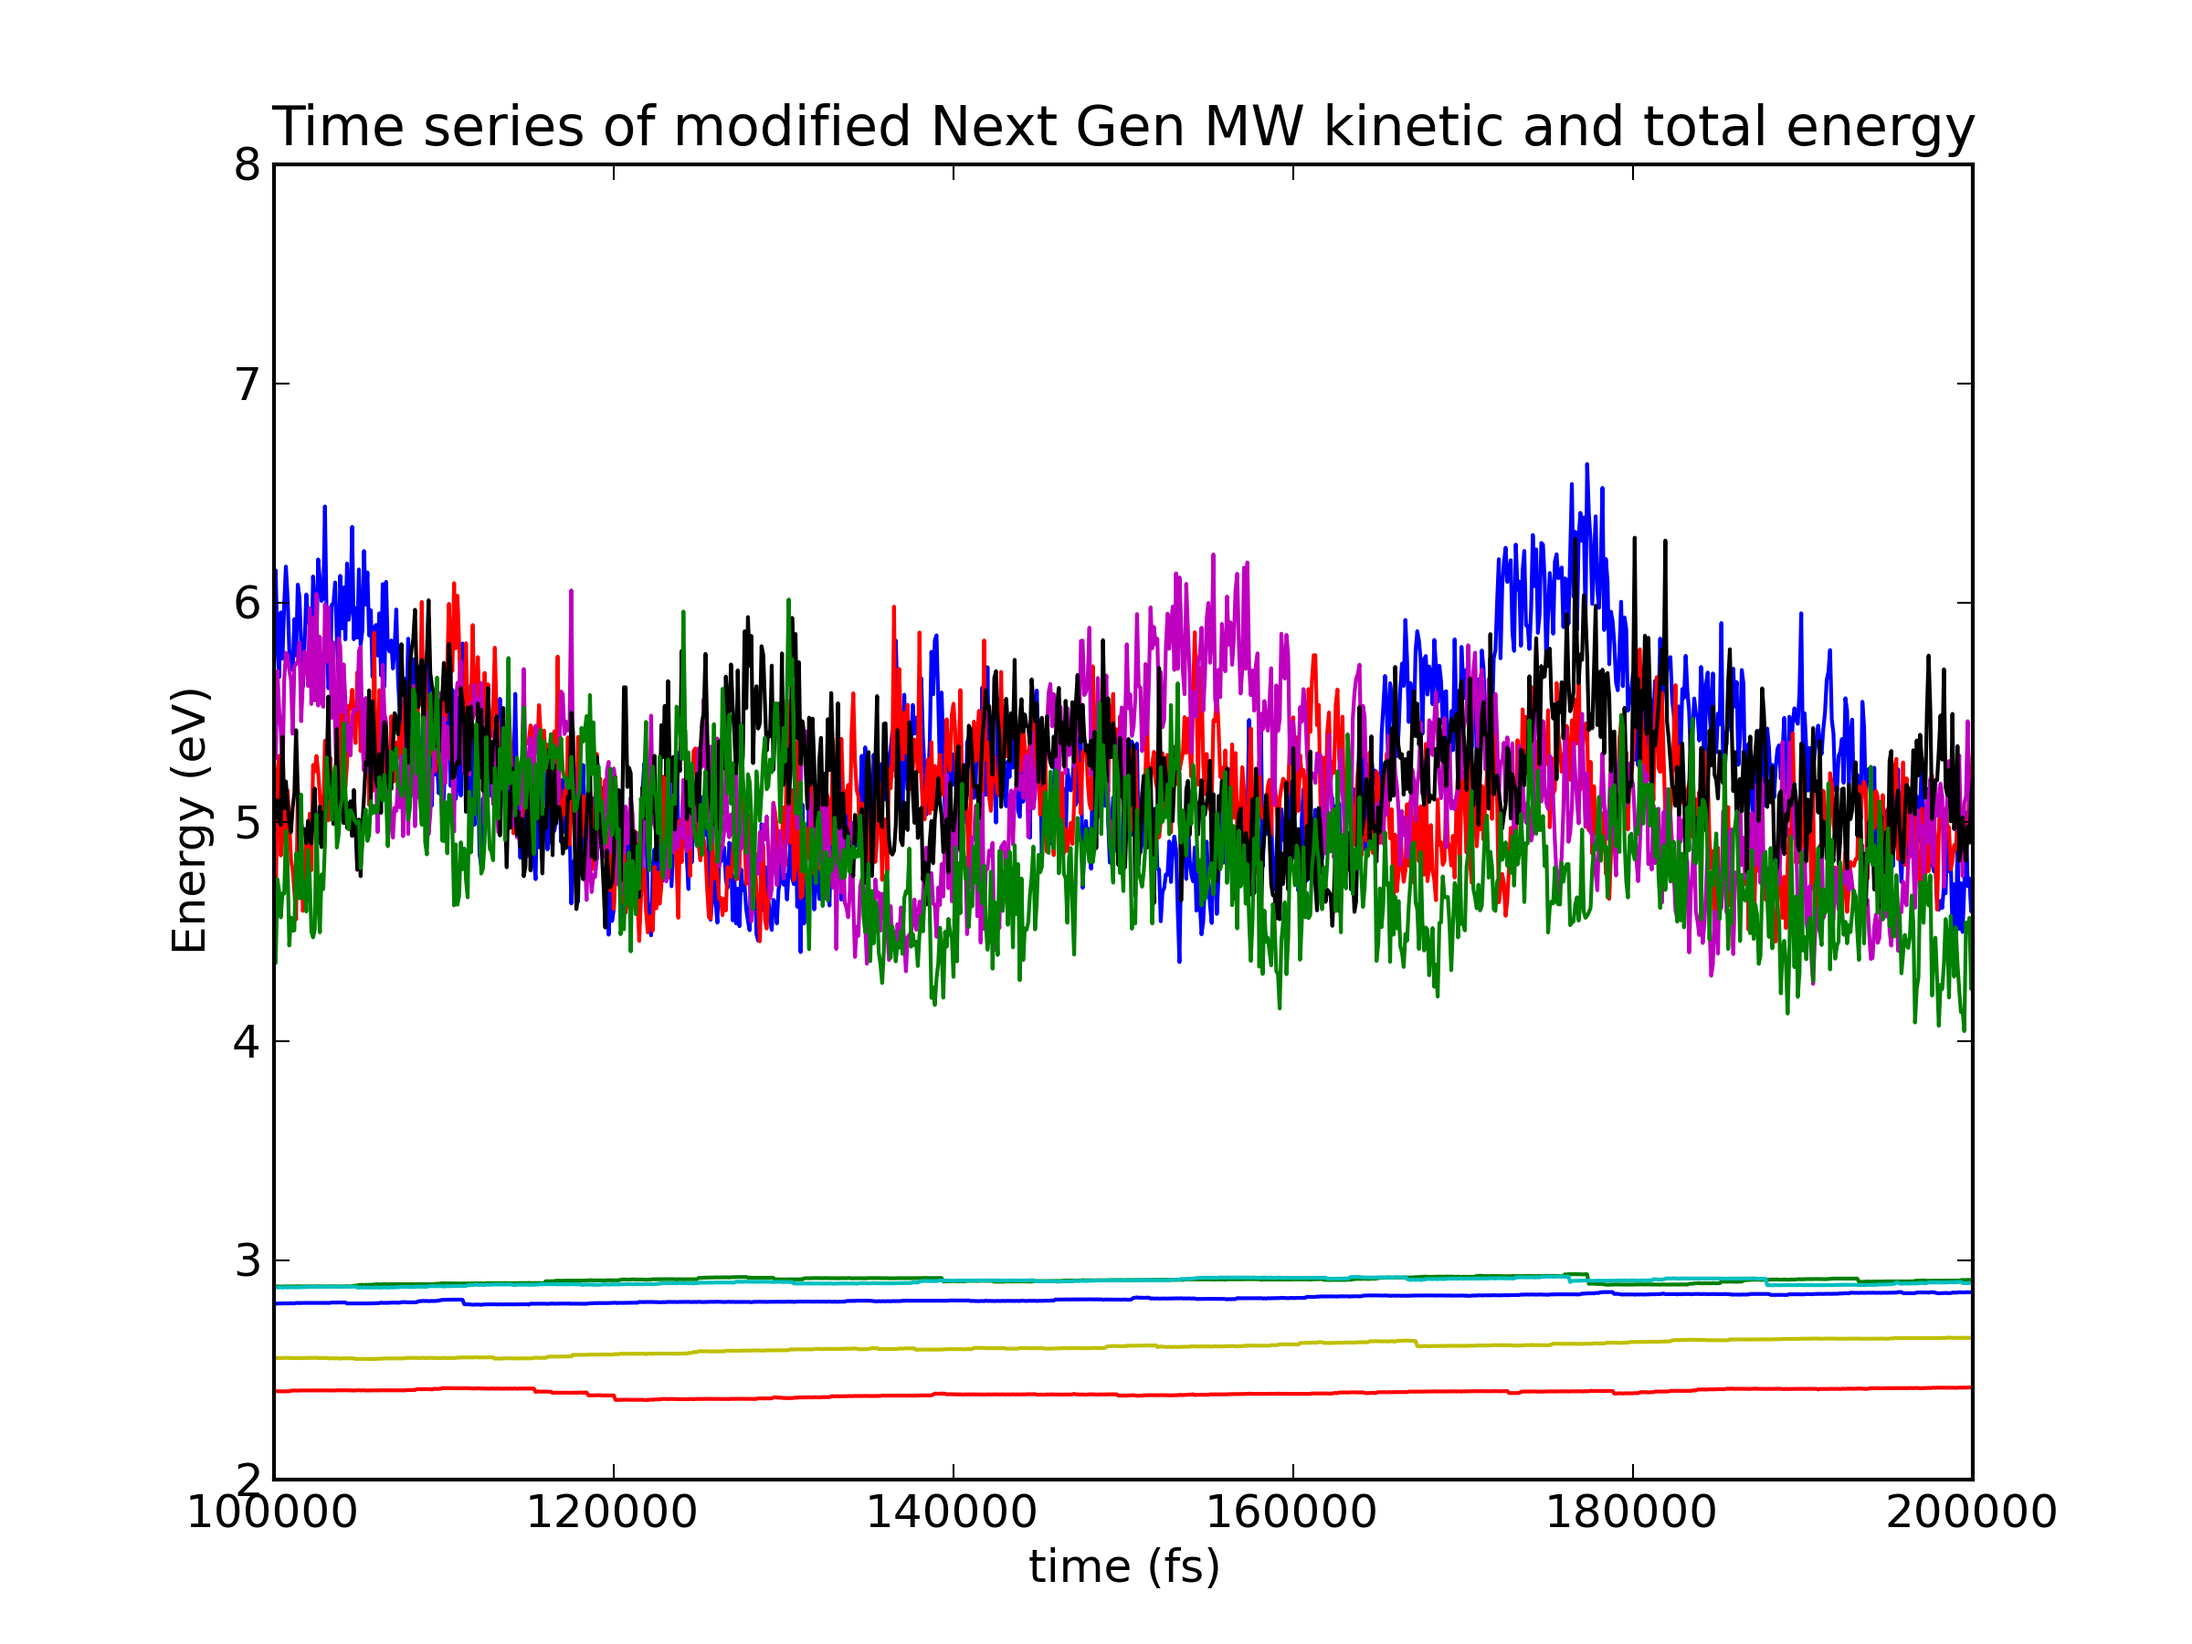
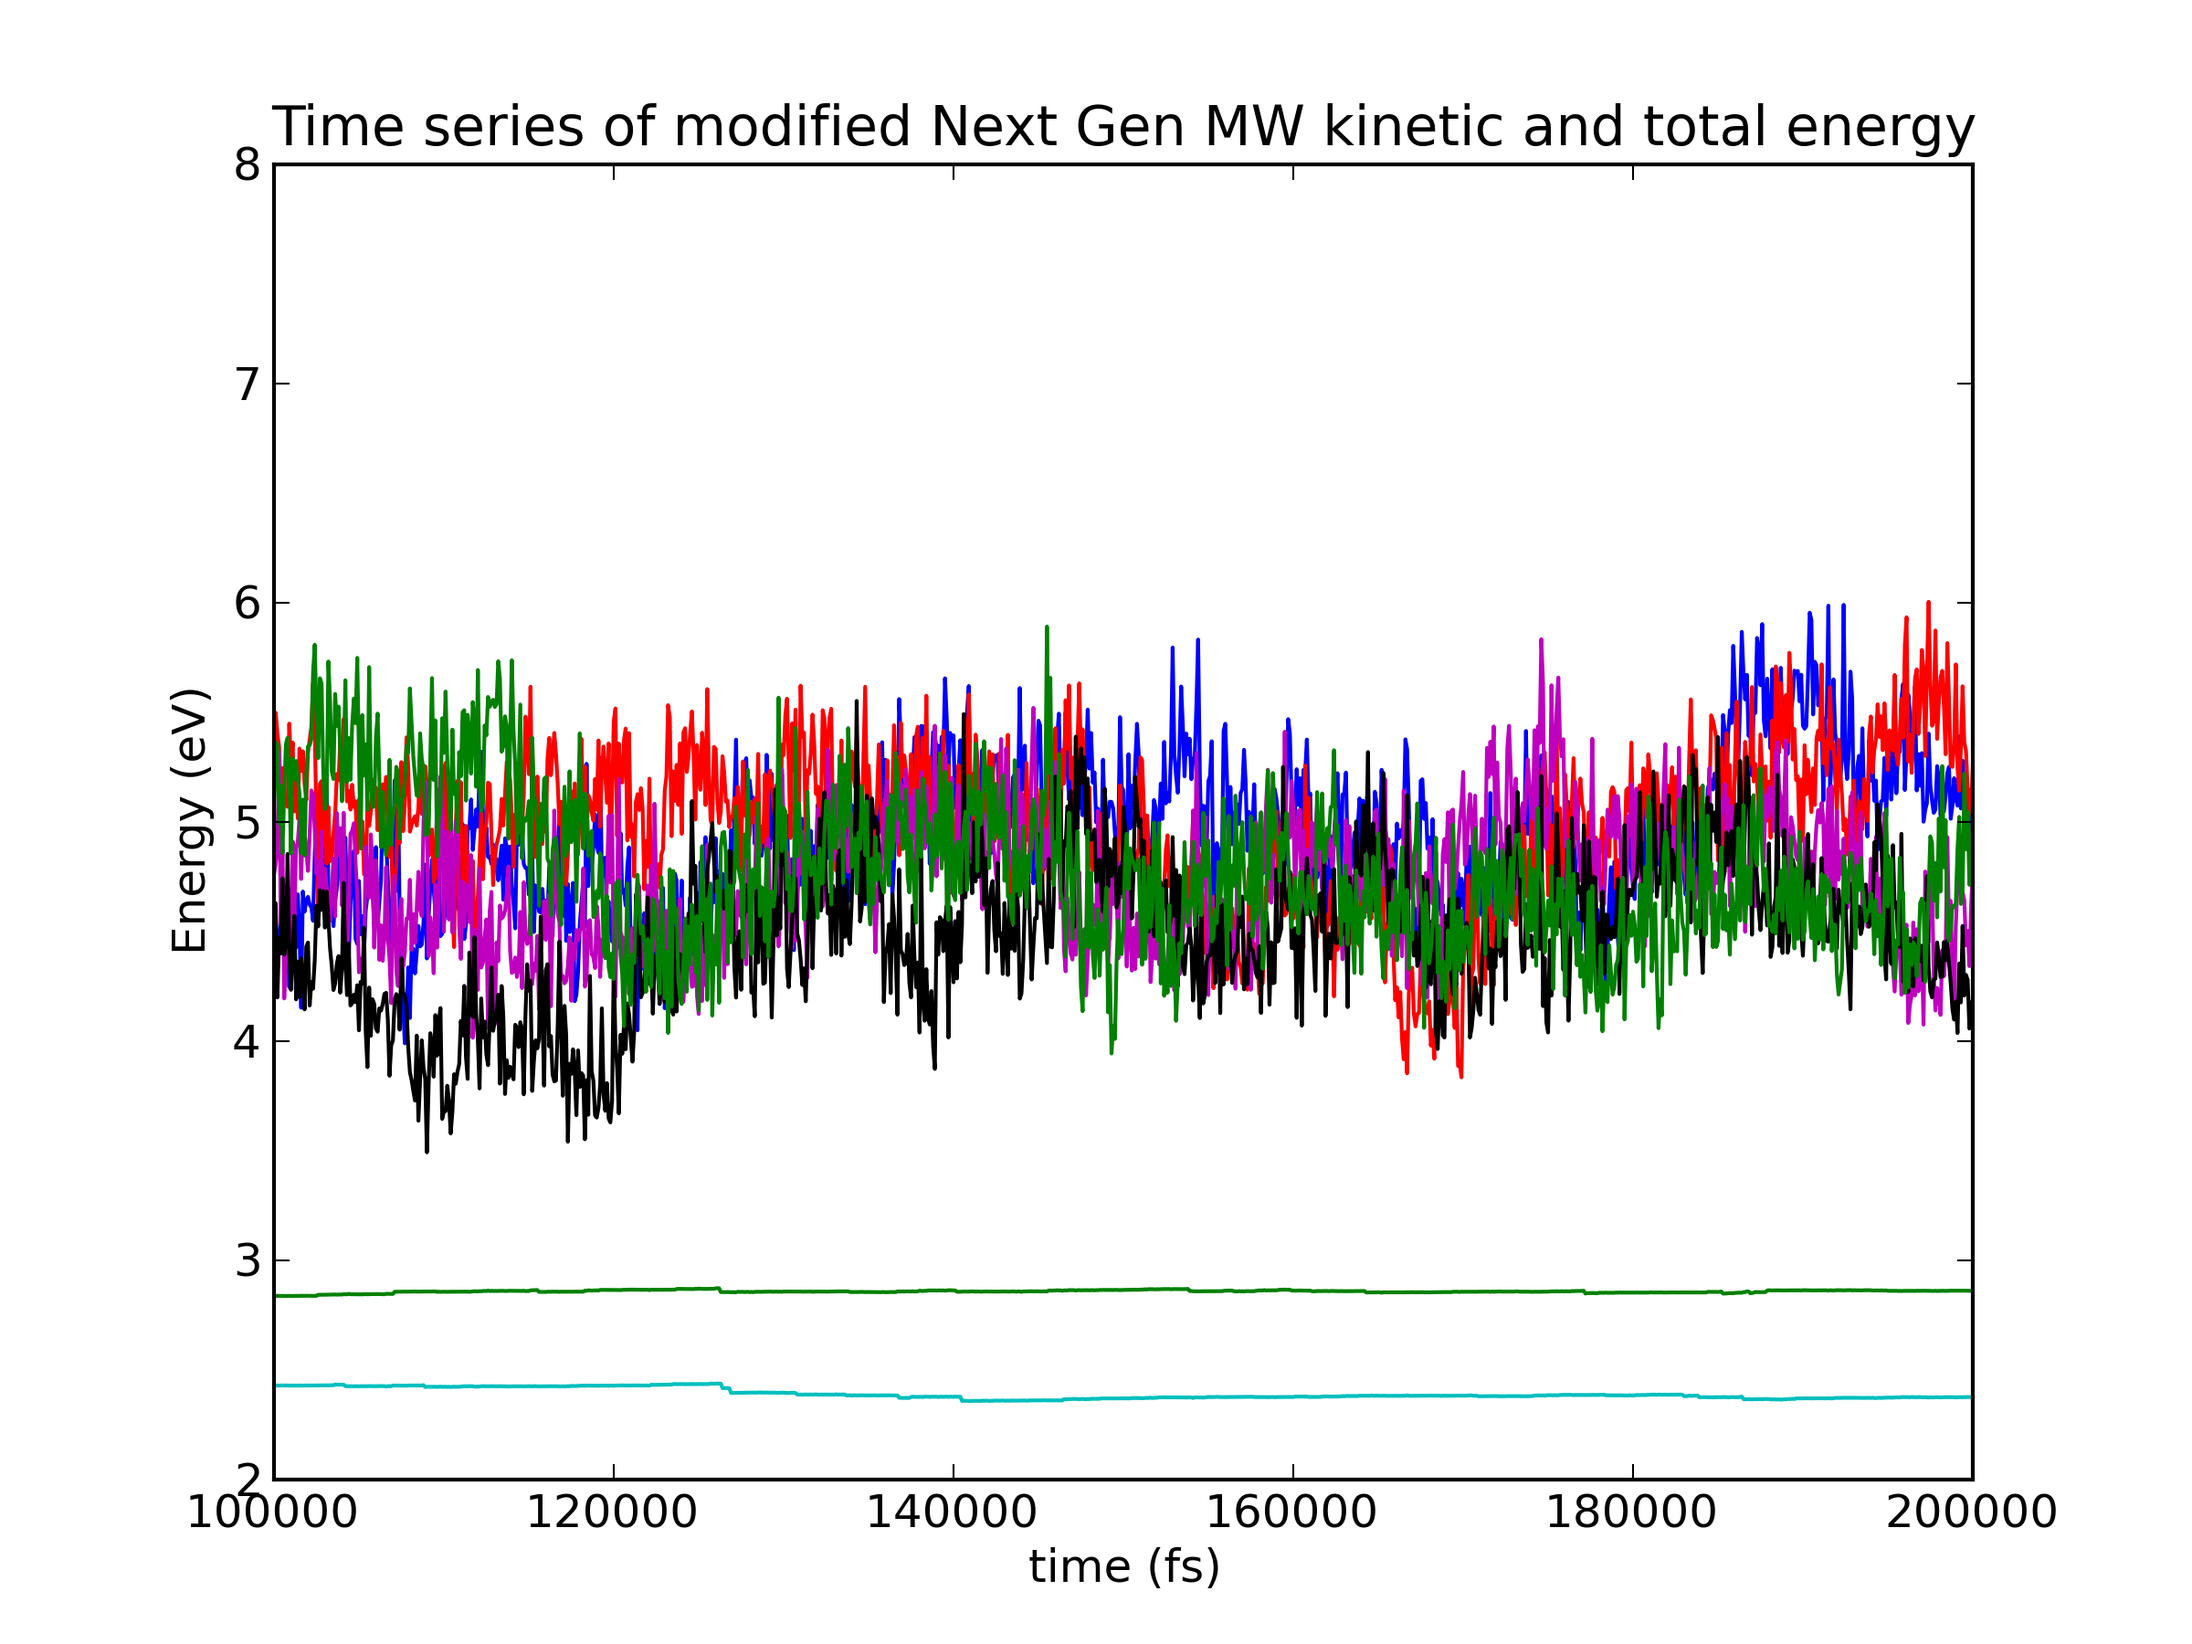
Graphs from updated data

Changed region(s): [[0.125, 0.28, 0.9062, 0.6844], [0.125, 0.84, 0.9062, 0.8711], [0.125, 0.7778, 0.9062, 0.8089]]

diff --git a/models/revised-epsilon-test/plot.py b/models/revised-epsilon-test/plot.py
@@ -84,7 +84,7 @@ for i in range(0, 5):
 
 # actually plot stuff
 
-plt.xlim(-0.5, 3.0)
+plt.xlim(-0.5, 15)
 
 plt.errorbar(initial_ke, classic_ke, yerr=classic_sd, label='Classic MW')
 plt.errorbar(initial_ke, nextgen_ke, yerr=nextgen_sd, label='Next Gen MW')

diff --git a/models/revised-epsilon-test/plot-extended-data.py b/models/revised-epsilon-test/plot-extended-data.py
@@ -27,6 +27,7 @@ for dataset in ('unmodified', 'modified'):
 
     time = map(get_time, lines)
     start = bisect.bisect_left(time, 100000)
+    #start = 0
 
     time = time[start:] 
     ke = map(get_ke, lines[start:])
